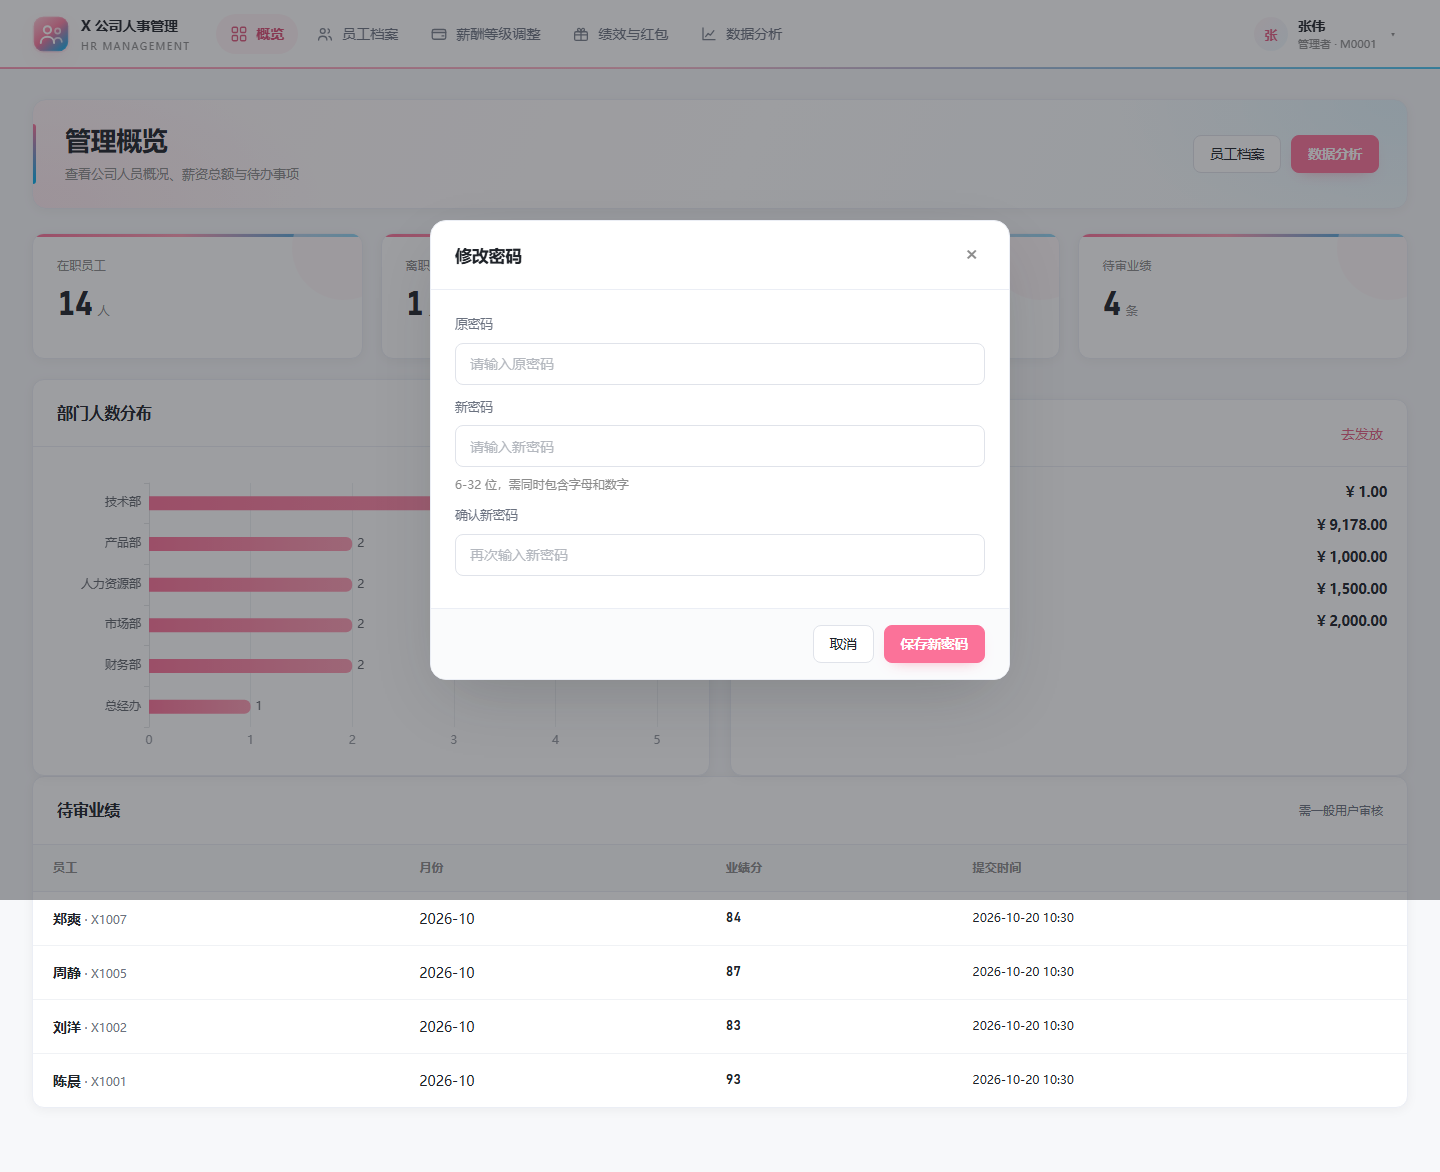
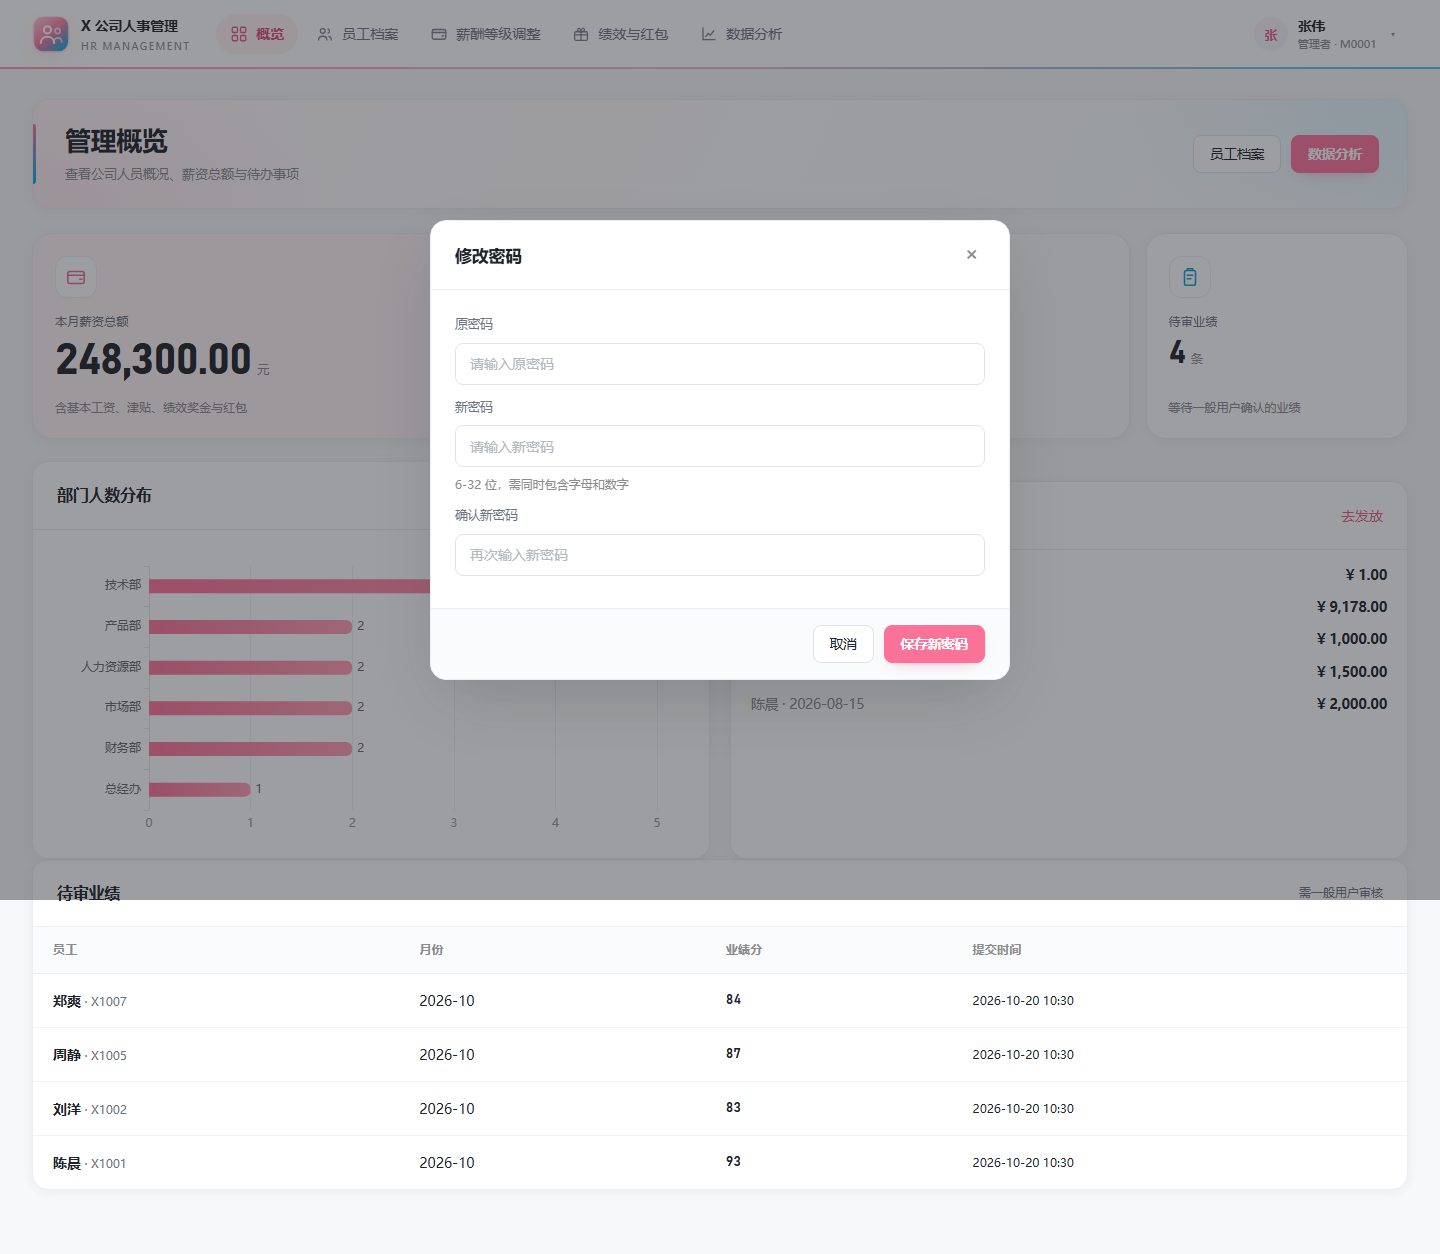
feat: apply bento-grid skill to dashboards and refine design tokens

diff --git a/src/main/resources/static/assets/css/app.css b/src/main/resources/static/assets/css/app.css
@@ -26,7 +26,7 @@
     --amber-soft: #FFF7E8;
     --red: #F56C6C;
     --red-soft: #FEF0F0;
-    --radius: 12px;
+    --radius: 16px;
     --radius-sm: 8px;
     --shadow: 0 2px 12px 0 rgba(0, 0, 0, .05);
     --shadow-hover: 0 6px 20px 0 rgba(0, 0, 0, .07);
@@ -212,7 +212,7 @@ p { margin: 0; }
     flex-wrap: wrap;
     padding: 24px 28px 24px 32px;
     border: 1px solid var(--line);
-    border-radius: 14px;
+    border-radius: 16px;
     background:
         radial-gradient(420px 220px at 100% 0%, rgba(0, 174, 236, .08), transparent 70%),
         radial-gradient(420px 220px at 0% 100%, rgba(251, 114, 153, .10), transparent 70%),
@@ -350,6 +350,66 @@ p { margin: 0; }
 
 .stat-value small { font-family: var(--font-sans); font-size: 12px; color: var(--faint); font-weight: 400; margin-left: 6px; letter-spacing: 0; }
 .stat-value.accent { color: var(--pink-deep); }
+
+/* ---------- Bento 指标区（首页） ---------- */
+.stat-grid.bento {
+    grid-template-columns: repeat(5, minmax(0, 1fr));
+    gap: 16px;
+    margin-bottom: 22px;
+}
+
+.stat-grid.bento .stat-card {
+    display: flex;
+    flex-direction: column;
+    align-items: flex-start;
+    min-height: 182px;
+    padding: 22px;
+    border-radius: 20px;
+    transition: transform .18s ease, box-shadow .18s ease;
+}
+
+.stat-grid.bento .stat-card:hover { transform: translateY(-2px); box-shadow: var(--shadow-hover); }
+
+.stat-grid.bento .stat-card::before,
+.stat-grid.bento .stat-card::after { display: none; }
+
+.stat-grid.bento .stat-card:first-child {
+    grid-column: span 2;
+    background: #FFF4F7;
+}
+
+.stat-grid.bento .stat-card:nth-child(2) { background: #F0FAFE; }
+.stat-grid.bento .stat-card:nth-child(3) { background: #FAFBFC; }
+.stat-grid.bento .stat-card:nth-child(4) { background: #FFFFFF; }
+
+.stat-grid.bento .stat-icon {
+    width: 42px;
+    height: 42px;
+    border-radius: 12px;
+    background: #fff;
+    border: 1px solid var(--line);
+    display: grid;
+    place-items: center;
+    color: var(--pink-dark);
+    margin-bottom: 14px;
+}
+
+.stat-grid.bento .stat-card:nth-child(2) .stat-icon { color: var(--blue-dark); }
+.stat-grid.bento .stat-card:nth-child(3) .stat-icon { color: var(--pink-dark); }
+.stat-grid.bento .stat-card:nth-child(4) .stat-icon { color: var(--blue-dark); }
+.stat-grid.bento .stat-icon svg { width: 22px; height: 22px; }
+
+.stat-grid.bento .stat-label { color: var(--muted); }
+.stat-grid.bento .stat-value { font-size: 32px; margin-top: 4px; }
+.stat-grid.bento .stat-card:first-child .stat-value { font-size: 44px; }
+
+.stat-grid.bento .stat-desc {
+    margin-top: auto;
+    padding-top: 12px;
+    font-size: 12px;
+    line-height: 1.5;
+    color: var(--faint);
+}
 
 /* ---------- 按钮 ---------- */
 .btn {
@@ -927,6 +987,9 @@ table.data-table { width: 100%; border-collapse: collapse; font-size: 14px; }
     .content { padding: 22px 20px 48px; }
     .chart-grid { grid-template-columns: 1fr; }
     .chart-grid .span-2 { grid-column: auto; }
+    .stat-grid.bento { grid-template-columns: repeat(2, minmax(0, 1fr)); }
+    .stat-grid.bento .stat-card:first-child { grid-column: span 2; }
+    .stat-grid.bento .stat-card:nth-child(4) { grid-column: span 2; }
     .expand-panel { grid-template-columns: 1fr; }
     .expand-col + .expand-col { border-left: none; padding-left: 0; border-top: 1px dashed var(--line); padding-top: 20px; }
 }
@@ -944,4 +1007,8 @@ table.data-table { width: 100%; border-collapse: collapse; font-size: 14px; }
     .login-card { padding: 30px 24px 26px; }
     .login-brand h1 { font-size: 21px; }
     .data-table th, .data-table td { padding-left: 14px; padding-right: 14px; }
+    .stat-grid.bento { grid-template-columns: 1fr; }
+    .stat-grid.bento .stat-card:first-child,
+    .stat-grid.bento .stat-card:nth-child(4) { grid-column: span 1; }
+    .stat-grid.bento .stat-card { min-height: 160px; }
 }

diff --git a/src/main/resources/static/manager/dashboard.html b/src/main/resources/static/manager/dashboard.html
@@ -21,7 +21,7 @@
                 </div>
             </div>
 
-            <div class="stat-grid" id="stats"></div>
+            <div class="stat-grid bento" id="stats"></div>
 
             <div class="chart-grid">
                 <div class="card">
@@ -60,10 +60,25 @@
         try {
             const data = await Api.get('/api/dashboard');
 
-            document.getElementById('stats').innerHTML = (data.cards || []).map((card) =>
-                '<div class="stat-card"><div class="stat-label">' + UI.escapeHtml(card.label) + '</div>' +
-                '<div class="stat-value">' + UI.escapeHtml(card.value) + '<small>' + UI.escapeHtml(card.unit) + '</small></div></div>'
-            ).join('');
+            const statMeta = {
+                payroll: { icon: 'wallet', desc: '含基本工资、津贴、绩效奖金与红包' },
+                active: { icon: 'users', desc: '当前在职员工总数' },
+                resigned: { icon: 'logout', desc: '已办理离职的员工' },
+                pending: { icon: 'clipboard', desc: '等待一般用户确认的业绩' }
+            };
+            const statOrder = { payroll: 0, active: 1, resigned: 2, pending: 3 };
+            const cards = (data.cards || []).slice().sort((a, b) =>
+                (statOrder[a.key] ?? 9) - (statOrder[b.key] ?? 9));
+            document.getElementById('stats').innerHTML = cards.map((card) => {
+                const meta = statMeta[card.key] || { icon: 'chart', desc: '' };
+                return '<div class="stat-card">' +
+                    '<span class="stat-icon">' + Layout.icon(meta.icon) + '</span>' +
+                    '<div class="stat-label">' + UI.escapeHtml(card.label) + '</div>' +
+                    '<div class="stat-value">' + UI.escapeHtml(card.value) +
+                    '<small>' + UI.escapeHtml(card.unit) + '</small></div>' +
+                    (meta.desc ? '<div class="stat-desc">' + meta.desc + '</div>' : '') +
+                    '</div>';
+            }).join('');
 
             const pendingBody = document.getElementById('pending-body');
             const pending = data.recentPerformances || [];

diff --git a/src/main/resources/static/me/dashboard.html b/src/main/resources/static/me/dashboard.html
@@ -21,7 +21,7 @@
                 </div>
             </div>
 
-            <div class="stat-grid" id="stats"></div>
+            <div class="stat-grid bento" id="stats"></div>
 
             <div class="chart-grid">
                 <div class="card">
@@ -51,10 +51,25 @@
         try {
             const data = await Api.get('/api/dashboard');
 
-            document.getElementById('stats').innerHTML = (data.cards || []).map((card) =>
-                '<div class="stat-card"><div class="stat-label">' + UI.escapeHtml(card.label) + '</div>' +
-                '<div class="stat-value">' + UI.escapeHtml(card.value) + '<small>' + UI.escapeHtml(card.unit) + '</small></div></div>'
-            ).join('');
+            const statMeta = {
+                total: { icon: 'wallet', desc: '本月应发合计' },
+                base: { icon: 'credit', desc: '薪酬等级对应的基本工资' },
+                bonus: { icon: 'trend', desc: '已审核业绩对应的奖金' },
+                redPacket: { icon: 'gift', desc: '尚未查看的特别奖励' }
+            };
+            const statOrder = { total: 0, base: 1, bonus: 2, redPacket: 3 };
+            const cards = (data.cards || []).slice().sort((a, b) =>
+                (statOrder[a.key] ?? 9) - (statOrder[b.key] ?? 9));
+            document.getElementById('stats').innerHTML = cards.map((card) => {
+                const meta = statMeta[card.key] || { icon: 'chart', desc: '' };
+                return '<div class="stat-card">' +
+                    '<span class="stat-icon">' + Layout.icon(meta.icon) + '</span>' +
+                    '<div class="stat-label">' + UI.escapeHtml(card.label) + '</div>' +
+                    '<div class="stat-value">' + UI.escapeHtml(card.value) +
+                    '<small>' + UI.escapeHtml(card.unit) + '</small></div>' +
+                    (meta.desc ? '<div class="stat-desc">' + meta.desc + '</div>' : '') +
+                    '</div>';
+            }).join('');
 
             const performances = data.recentPerformances || [];
             document.getElementById('performance-body').innerHTML = performances.length === 0

diff --git a/src/main/resources/static/assets/js/layout.js b/src/main/resources/static/assets/js/layout.js
@@ -21,7 +21,11 @@
         target: '<circle cx="12" cy="12" r="8"/><circle cx="12" cy="12" r="4"/><circle cx="12" cy="12" r="1"/>',
         lock: '<rect x="5" y="10.5" width="14" height="9.5" rx="2"/><path d="M8.5 10.5V8a3.5 3.5 0 0 1 7 0v2.5"/>',
         logout: '<path d="M15 4h3.5A1.5 1.5 0 0 1 20 5.5v13a1.5 1.5 0 0 1-1.5 1.5H15"/>' +
-            '<path d="M10 8l-4 4 4 4"/><path d="M6 12h9"/>'
+            '<path d="M10 8l-4 4 4 4"/><path d="M6 12h9"/>',
+        trend: '<path d="M4 17l5-5 4 3 7-8"/><path d="M20 7h-4"/><path d="M20 7v4"/>',
+        credit: '<rect x="3" y="6" width="18" height="12" rx="2"/><path d="M3 10h18"/><path d="M7 14h4"/>',
+        clipboard: '<rect x="6" y="5" width="12" height="16" rx="2"/><path d="M9 5V3h6v2"/>' +
+            '<path d="M9 10h6M9 14h4"/>'
     };
 
     const MENUS = {
@@ -195,5 +199,5 @@
         return me;
     }
 
-    global.Layout = { init, home, renderTopnav, openUserPanel, openChangePassword };
+    global.Layout = { init, home, renderTopnav, openUserPanel, openChangePassword, icon };
 })(window);

diff --git a/docs/需求分析与设计文档.md b/docs/需求分析与设计文档.md
@@ -643,12 +643,13 @@ GET /api/mgr/analytics?employeeIds=5,6,7&months=6
 | 辅助色 | bilibili 蓝 `#00AEEC`，hover `#0094C9` |
 | 背景 | 页面 `#F7F8FA`；卡片 `#FFFFFF`；表格头 `#FAFBFC` |
 | 文字 | 主 `#1F2329`，次 `#6B7280`，弱/辅助 `#8C8C8C`（12px） |
-| 边框/阴影 | 卡片 `1px solid #EBEEF5` + `0 2px 12px 0 rgba(0,0,0,.05)`；卡片圆角 12px，按钮圆角 8px |
+| 边框/阴影 | 卡片 `1px solid #EBEEF5` + `0 2px 12px 0 rgba(0,0,0,.05)`；普通卡片圆角 16px，Bento 指标卡圆角 20px，按钮圆角 8px |
 | 字体 | 正文 `Inter / HarmonyOS Sans SC / PingFang SC`，14px/400；页面标题 26px/700；卡片标题 16px/600；辅助信息 12px/400 且使用 `#8C8C8C` |
-| 数字字体 | `Bahnschrift / DIN Alternate / Roboto Mono`，启用 `tabular-nums`；统计卡数字 34px/700，金额与业绩分统一等宽 |
-| 留白 | 卡片内边距 24px；表头 13/20px、单元格 15/20px；表单控件高 42px，栅格间距 18/24px |
+| 数字字体 | `Bahnschrift / DIN Alternate / Roboto Mono`，启用 `tabular-nums`；首页主指标 44px/700，其余统计数字 34px/700，金额与业绩分统一等宽 |
+| 留白 | 卡片内边距 24px；Bento 指标卡内边距 22px、最小高度 182px；表头 13/20px、单元格 15/20px；表单控件高 42px，栅格间距 18/24px |
+| 首页指标区 | Bento Grid：5 列网格，首卡跨 2 列，其余 1 列；卡片间距 16px；图标块 42px、圆角 12px；说明文字 12px `#8C8C8C` |
 | 品牌图标 | `static/assets/img/logo.svg`：粉蓝渐变圆角底 + 白色双人线稿，替代原先的纯文字 “X” |
-| 装饰 | 顶栏底部粉蓝渐变线；页面标题左侧渐变竖条；统计卡顶部渐变条；选中菜单粉色胶囊；登录页粉/蓝光晕 |
+| 装饰 | 顶栏底部粉蓝渐变线；页面标题左侧渐变竖条；非 Bento 卡片保留顶部渐变条；选中菜单粉色胶囊；登录页粉/蓝光晕 |
 | 状态色 | 成功 `#2BA471`、警告 `#D97706`、危险 `#F56C6C`、信息 `#00AEEC` |
 
 ### 7.2 页面布局
@@ -708,6 +709,18 @@ GET /api/mgr/analytics?employeeIds=5,6,7&months=6
 - 点击右上角个人信息弹出「账号信息」弹窗，弹窗内提供「修改密码」与「退出登录」，不再占用页面空间。
 - 修改密码为二级弹窗，调用 `PUT /api/auth/password`；成功后提示并关闭弹窗，首次改密场景直接回到角色首页。退出调用 `POST /api/auth/logout`，确认后回到登录页。
 - 后端接口契约不变：`/api/auth/me` 提供姓名、角色、工号与首次改密标记；页面拦截器仍按 `/manager/**`、`/hr/**`、`/me/**` 校验角色，本次仅调整前端布局与交互，无需新增接口。
+
+---
+
+### 7.6 设计技能应用（dsh-design-skills）
+
+本次改版按 `dsh-design-skills` 中的 **bento-grid** 规范重构首页指标区，并用 **apple-minimal** 的留白与克制配色原则约束整体视觉：
+
+- 指标区使用 5 列网格，首卡跨 2 列，其余 1 列；卡片间距 16px，圆角 20px；在 1080px 以下变为 2 列、760px 以下变为单列；
+- 每张指标卡包含 42px 线性图标块、标签、数字和一句 12px `#8C8C8C` 说明；
+- 主指标 44px/700，其余指标 32px/700，数字统一使用 DIN/等宽字体与 `tabular-nums`；
+- 使用低饱和底色池（`#FFF4F7` / `#F0FAFE` / `#FAFBFC` / `#FFFFFF`），不使用复杂渐变卡片；
+- 登录框、普通卡片、表格的字重、字号、边框、留白仍按 7.1 的明确规范执行，技能规范与用户要求冲突时以用户要求为准。
 
 ---
 
@@ -822,6 +835,17 @@ http://localhost:8080/login.html
 ### 13.3 单元测试
 
 `mvn test`：`PasswordHasherTest`（哈希/校验/无效格式）、`MonthUtilTest`（跨年月份、格式校验）通过。
+
+### 13.4 设计规范审计
+
+`tools/browser/design-audit.mjs` 读取浏览器最终计算样式，结果保存在 `tools/design-audit.txt`：
+
+- 页面标题 26px/700，正文 14px/400，页面说明 13px `#8C8C8C`；
+- 表头 12px/600 `#8C8C8C`，单元格 14px/400、内边距 15/20px；
+- 首页主指标 44px/700，其他指标 34px/700，`Bahnschrift/DIN` + `tabular-nums`；
+- 卡片边框 `1px solid rgb(235,238,245)`，阴影 `0 2px 12px rgba(0,0,0,.05)`，普通卡片圆角 16px；
+- Bento 指标卡圆角 20px、底色 `#FFF4F7`、最小高度 182px、图标块 42px；
+- 登录 Logo 使用 `/assets/img/logo.svg`（54px），登录标题 24px/700。
 
 ---
 
